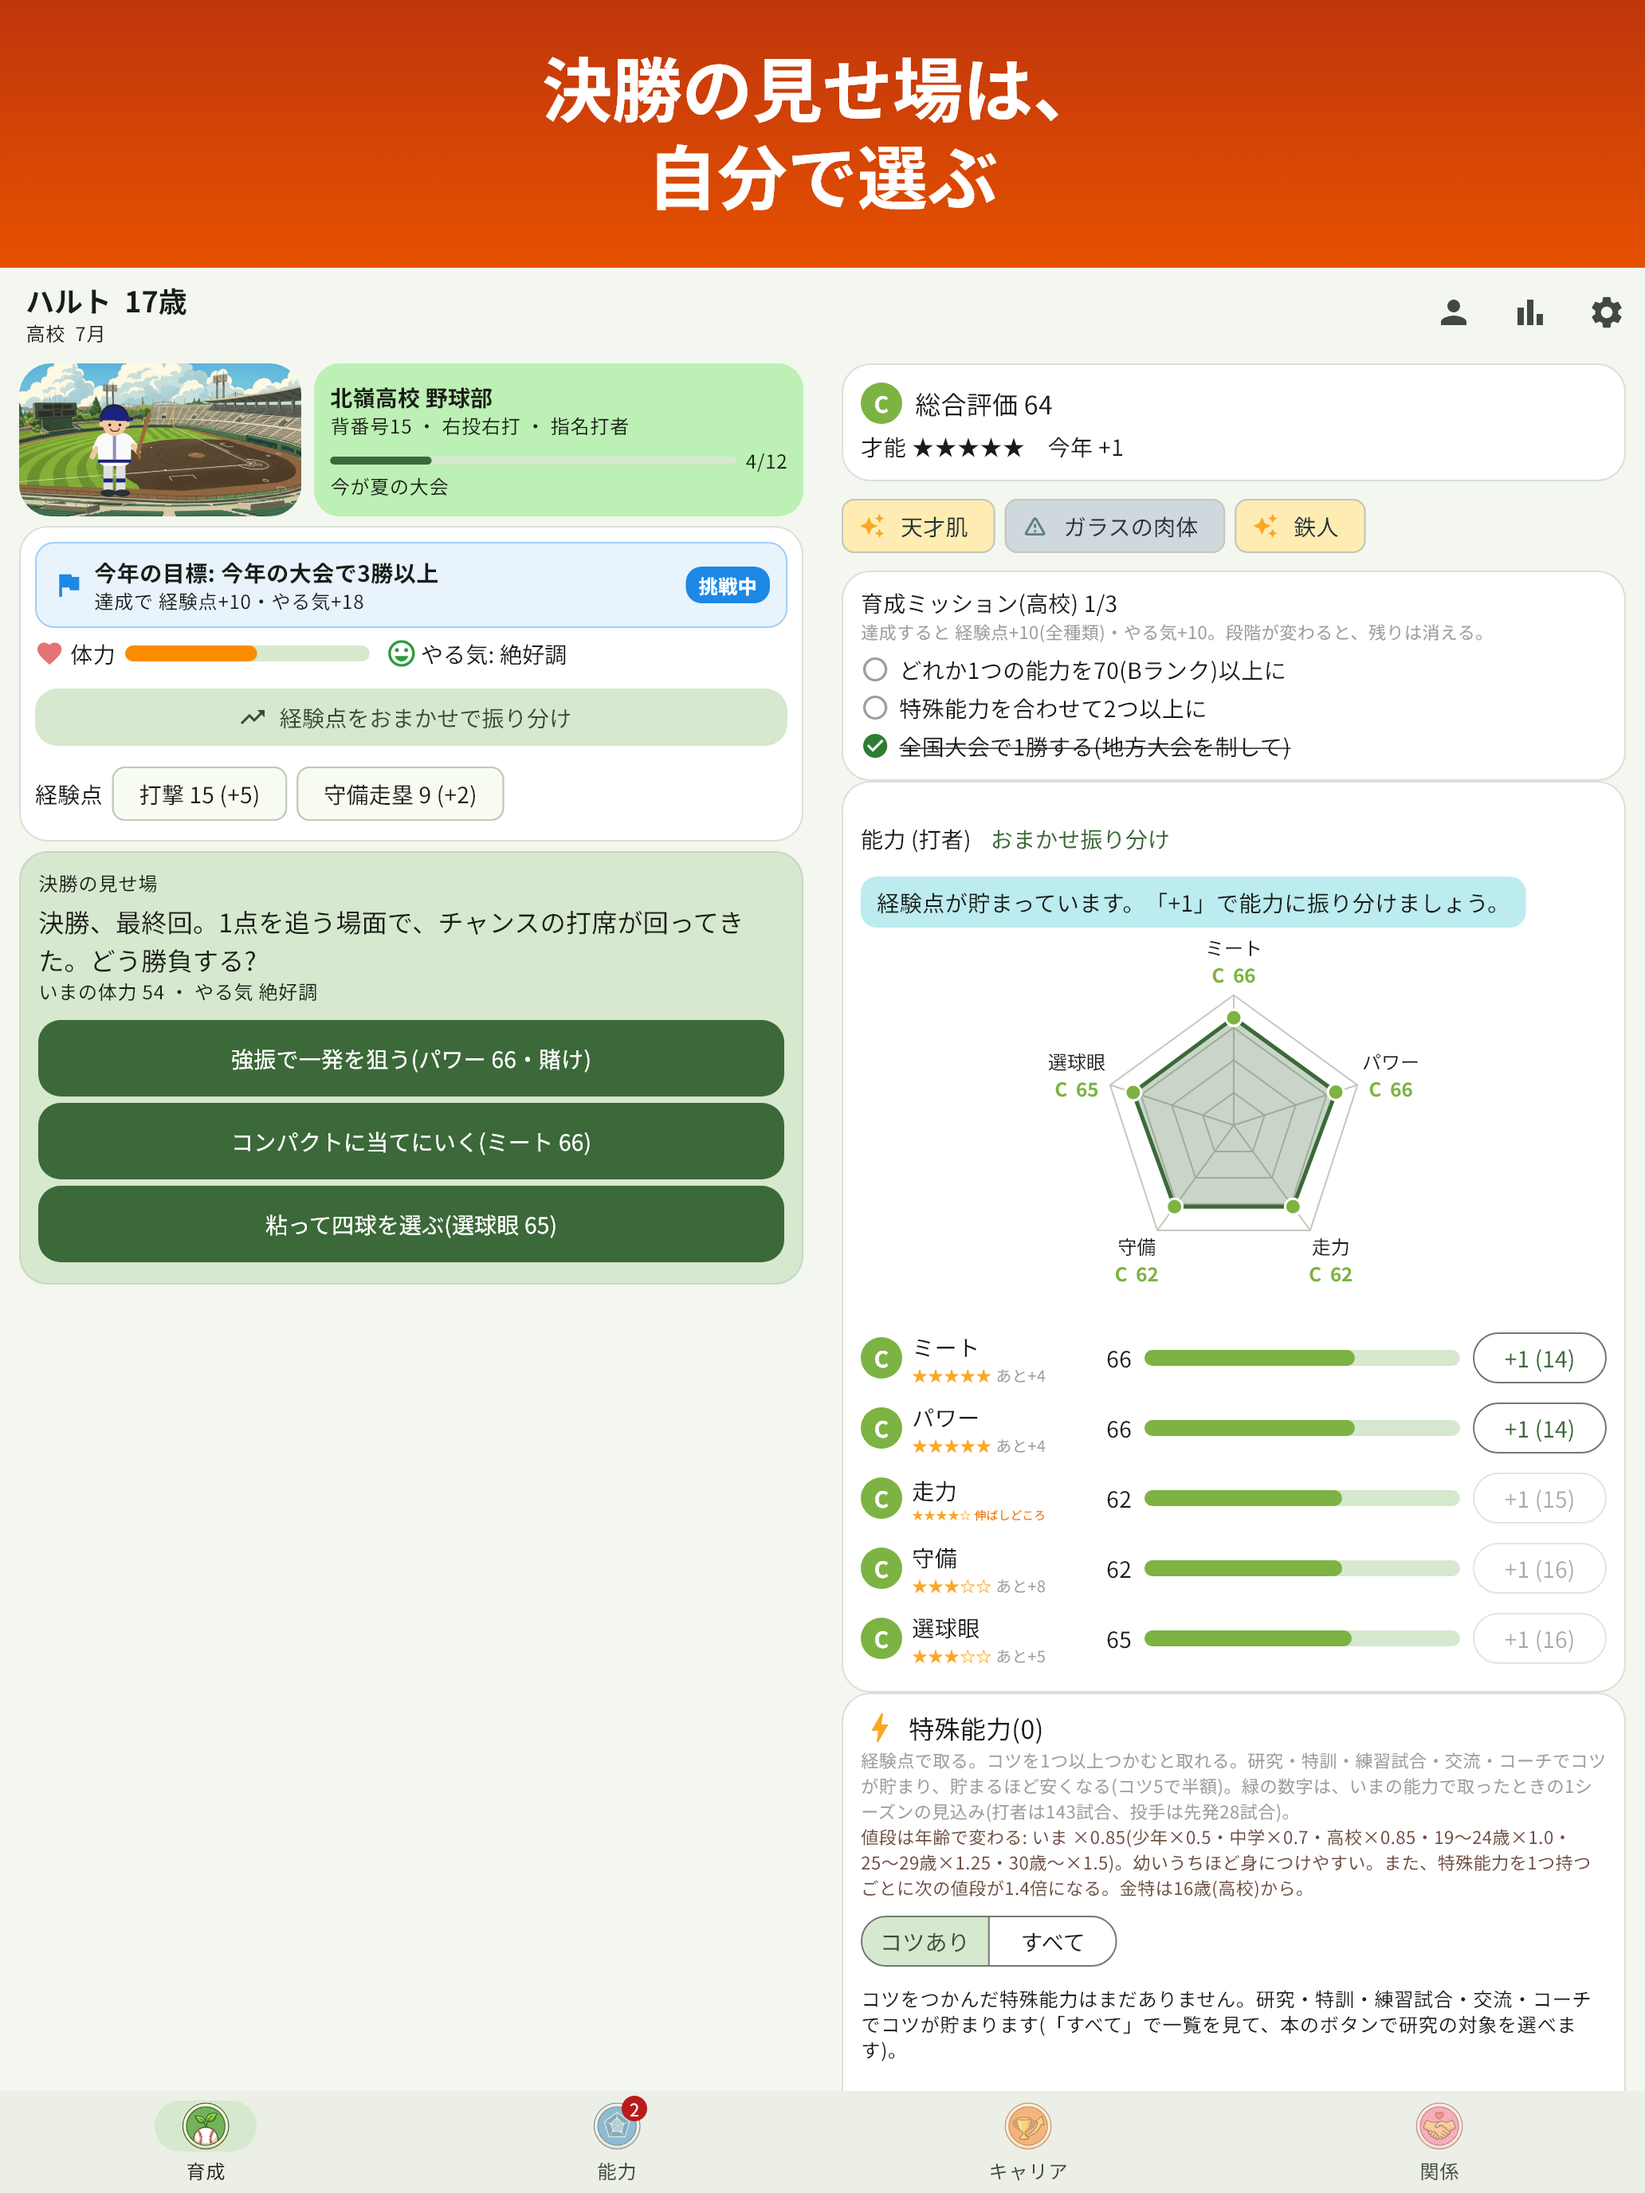
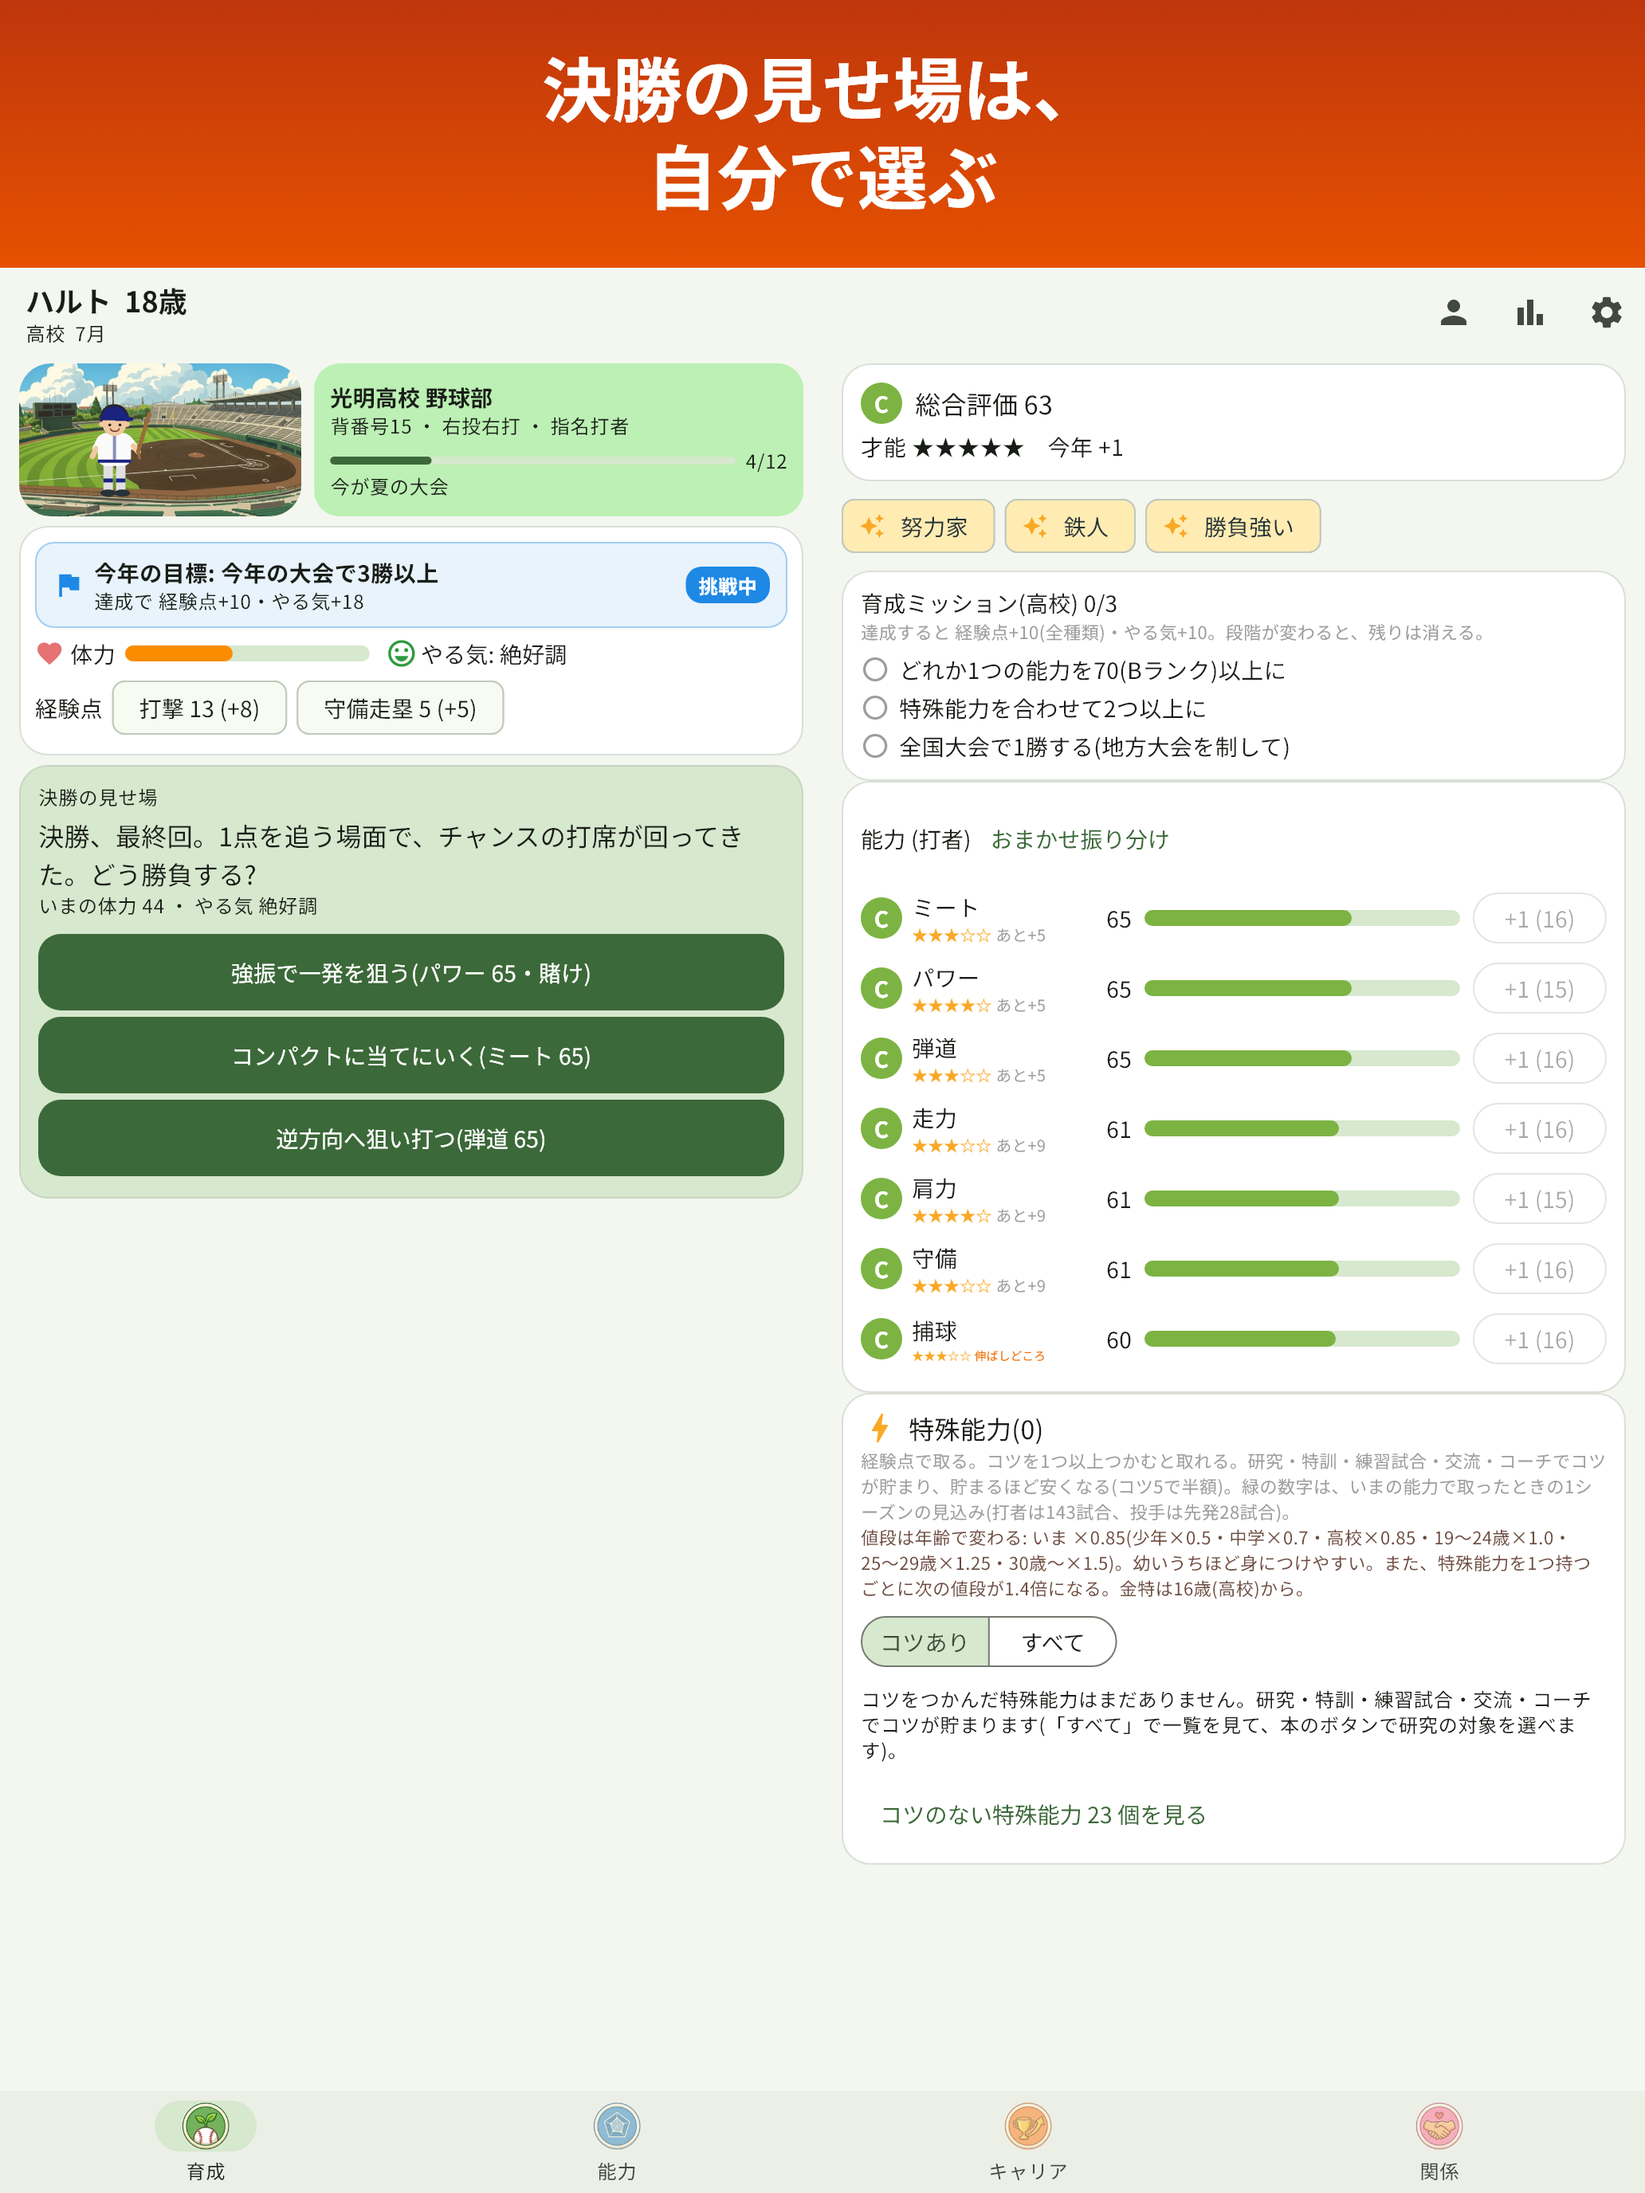
野球育成: 掲載画像の撮り直し(能力7つ)と、投手の重点チップを整理 (#804)
* 野球育成: 掲載画像を新しい能力(7つ・五角形なし)で撮り直す

* 野球育成: 投手の重点チップを投球の4つだけ先に出し、打撃・守備は開いて選ぶ形にする

---------

diff --git a/projects/baseball-manager/lib/ui/game_screen.dart b/projects/baseball-manager/lib/ui/game_screen.dart
@@ -1419,22 +1419,8 @@ class _ActionCard extends StatelessWidget {
                 onPressed: () => _showYearPlan(context, game),
               ),
             ]),
-            Wrap(
-                spacing: 4,
-                crossAxisAlignment: WrapCrossAlignment.center,
-                children: [
-                  Text('重点', style: Theme.of(context).textTheme.labelMedium),
-                  for (final a in abilities)
-                    ChoiceChip(
-                      key: Key('focus-${a.name}'),
-                      visualDensity: VisualDensity.compact,
-                      showCheckmark: false,
-                      labelPadding: EdgeInsets.zero,
-                      label: Text(abilityLabel(a)),
-                      selected: a == focus,
-                      onSelected: (_) => controller.setFocus(a),
-                    ),
-                ]),
+            _FocusChips(
+                controller: controller, role: game.player.role, focus: focus),
             if (combos.isNotEmpty)
               Padding(
                 padding: const EdgeInsets.only(top: 4),
@@ -1491,6 +1477,61 @@ class _ActionCard extends StatelessWidget {
         ),
       ),
     );
+  }
+}
+
+/// 重点の能力のチップ。投手は投球の4つだけ先に出し、打撃・守備(7つ)は「打撃・守備」で開く
+/// (11個並ぶと3行になって、行動のタイルが画面の下に押し出されるため)。
+class _FocusChips extends StatefulWidget {
+  const _FocusChips(
+      {required this.controller, required this.role, required this.focus});
+  final GameController controller;
+  final Role role;
+  final Ability focus;
+
+  @override
+  State<_FocusChips> createState() => _FocusChipsState();
+}
+
+class _FocusChipsState extends State<_FocusChips> {
+  bool _open = false;
+
+  @override
+  Widget build(BuildContext context) {
+    final main = mainAbilitiesOf(widget.role);
+    final extra = [
+      for (final a in abilitiesOf(widget.role))
+        if (!main.contains(a)) a
+    ];
+    final showExtra = _open || extra.contains(widget.focus);
+    Widget chip(Ability a) => ChoiceChip(
+          key: Key('focus-${a.name}'),
+          visualDensity: VisualDensity.compact,
+          showCheckmark: false,
+          labelPadding: EdgeInsets.zero,
+          label: Text(abilityLabel(a)),
+          selected: a == widget.focus,
+          onSelected: (_) => widget.controller.setFocus(a),
+        );
+    return Wrap(
+        spacing: 4,
+        crossAxisAlignment: WrapCrossAlignment.center,
+        children: [
+          Text('重点', style: Theme.of(context).textTheme.labelMedium),
+          for (final a in main) chip(a),
+          if (extra.isNotEmpty) ...[
+            ActionChip(
+              key: const Key('focus-more'),
+              visualDensity: VisualDensity.compact,
+              labelPadding: EdgeInsets.zero,
+              avatar: Icon(showExtra ? Icons.expand_less : Icons.expand_more,
+                  size: 18),
+              label: const Text('打撃・守備'),
+              onPressed: () => setState(() => _open = !showExtra),
+            ),
+            if (showExtra) for (final a in extra) chip(a),
+          ],
+        ]);
   }
 }
 

diff --git a/projects/baseball-manager/test/ui/app_test.dart b/projects/baseball-manager/test/ui/app_test.dart
@@ -1298,6 +1298,25 @@ void _rankTests() {
       expect(line, contains('投'));
     });
 
+    testWidgets('投手の重点は投球の4つが先に出て、「打撃・守備」で開くと打撃の7つが出る', (t) async {
+      final c = await _start(t);
+      c.newGame('テスト', Role.pitcher);
+      await t.pumpAndSettle();
+      expect(find.byKey(const Key('focus-stuff')), findsOneWidget);
+      expect(find.byKey(const Key('focus-breaking')), findsOneWidget);
+      expect(find.byKey(const Key('focus-contact')), findsNothing);
+      await t.ensureVisible(find.byKey(const Key('focus-more')));
+      await t.tap(find.byKey(const Key('focus-more')));
+      await t.pumpAndSettle();
+      expect(find.byKey(const Key('focus-contact')), findsOneWidget);
+      expect(find.byKey(const Key('focus-catching')), findsOneWidget);
+      // 打者は最初から全部出る(開く札は無い)
+      c.newGame('テスト', Role.batter);
+      await t.pumpAndSettle();
+      expect(find.byKey(const Key('focus-more')), findsNothing);
+      expect(find.byKey(const Key('focus-catching')), findsOneWidget);
+    });
+
     testWidgets('練習の名前は重点の能力で変わる(素振り→ノック)', (t) async {
       final c = await _start(t);
       c.newGame('テスト', Role.batter);

diff --git a/projects/baseball-manager/tool/screenshots/capture_test.dart b/projects/baseball-manager/tool/screenshots/capture_test.dart
@@ -287,6 +287,9 @@ void main() {
     ), after: () async {
       await t.tap(find.byKey(const Key('tab-ability')));
       await t.pumpAndSettle();
+      // 能力が7つになったので、最後(捕球)まで見えるように少し送る
+      await t.drag(find.byType(ListView).first, const Offset(0, -60));
+      await t.pumpAndSettle();
     });
 
     // 3. 決勝の見せ場。

diff --git a/projects/baseball-manager/STORE_LISTING.md b/projects/baseball-manager/STORE_LISTING.md
@@ -73,7 +73,7 @@
 `tool/screenshots/capture_test.dart` で作る（`marketing/screenshots/*.png`）。
 
 1. 「6歳から、ひとりの選手を育てる」 … 育成画面（背景・行動のタイル・目標）
-2. 「天賦と特性が、選手ごとに違う」 … 能力タブ（レーダー・天賦・特性）
+2. 「天賦と特性が、選手ごとに違う」 … 能力タブ（ランク・天賦・特性。打者の能力7つが全部見える位置まで送って撮る）
 3. 「決勝の見せ場は、自分で選ぶ」 … 決勝の見せ場（3つの作戦）
 4. 「実際の野球にある表彰と大記録」 … 成績・表彰
 5. 「引退のあとも、物語は続く」 … エンディング（引退後の道）
